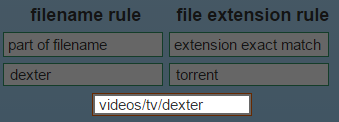
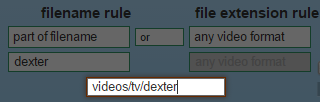
added confirmation, fixed pics in readme

diff --git a/readme.html b/readme.html
@@ -19,9 +19,8 @@
 </div>
 
 <div id="intro">
-    This is the best extension to organize your downloads into different folders.<br><br>
+    This is the best extension to organize your downloads into different folders using simple intuitive rules.<br><br>
 
-    This is not an easy task. You need to understand one thing:<br>
     Due to security reasons Javascript doesn't allow access to <i class="accent">ANY</i> folder on your computer. So my suggestions are either:<br>
     
 
@@ -47,20 +46,20 @@
 &nbsp;&nbsp;&nbsp;&nbsp;2. Place all your required download folders as <b>sub-diretories of the main download folder</b>.
 </div>
 
-<p><b><a class="four" href="#setRulesTitle">set rules</a></b></p>
-<p><b><a class="four" href="#examples">examples</a></b></p>
+<p><b><a class="four" href="#setRulesTitle">Set Rules</a></b></p>
+<p><b><a class="four" href="#examples">Examples</a></b></p>
 <p><b><a class="four" href="#qna">Q &amp; A</a></b></p>
-<p><b><a class="four" href="#contactMe">contact me</a></b></p>
+<p><b><a class="four" href="#contactMe">Contact Me</a></b></p>
 
 <p>
 <h1 id="setRulesTitle">Set Rules:</h1>
 <div id="newRule">
     <ol class="setRulesList" display="inline-block">
         <li class="setRulesList2">Click the <strong>New Rule</strong> button 
-          <img id="newRule" class="tutorialImages" src="tutorial/newRule.png"  height="80" alt="New Rule" title="New Rule">
+          <img id="newRule" class="tutorialImages" src="tutorial/newRule.png" alt="New Rule">
           <br><br><br><br>
         <li display="inline-block" class="setRulesList2">Select <strong>Filename Rule Type</strong> and/or <strong>Extension Rule Type</strong>
-          <img id="ruleType" class="tutorialImages" src="tutorial/selectRule2.png"  height="100" alt="rule type" title="Rule Type">
+          <img id="ruleType" class="tutorialImages" src="tutorial/selectRule.png"  height="100" alt="rule type" title="Rule Type">
           <ul>
             <li><strong>none</strong> - don't apply any rule
             <li><strong>exact match</strong> - input must match exactly the filename or extension.
@@ -70,12 +69,22 @@
                 to the filename or extension.<br>e.g ".*tor.*[0-9].*" is a valid regular expression input.
            </ul>
            <br>
-        <li display="inline-block" class="setRulesList2">Fill the <strong>Input</strong> box&nbsp;&nbsp;
+        <li display="inline-block" class="setRulesList2">Fill in the <strong>Input</strong> box&nbsp;&nbsp;
             <img id="ruleType" class="tutorialImages" src="tutorial/input.png" alt="rule type" title="Rule Type">
             <br>
             <br>
             <br>
-        <li display="inline-block" class="setRulesList2">Fill the <strong>Folder</strong> box
+        <li display="inline-block" class="setRulesList2">Choose <strong>and</strong> or <strong>or</strong> between rules.&nbsp;&nbsp;
+            <img id="ruleType" class="tutorialImages" src="tutorial/andOr.png" alt="rule type" title="Rule Type">
+            <br>
+            <br>
+            <br>
+        <li display="inline-block" class="setRulesList2">(If necessary) select <strong>extension</strong> rule.&nbsp;&nbsp;
+            <img id="ruleType" class="tutorialImages" src="tutorial/selectExtRule.png" alt="rule type" title="Rule Type">
+            <br>
+            <br>
+            <br>
+        <li display="inline-block" class="setRulesList2">Fill in the <strong>Folder</strong> box
             <img id="ruleType" class="tutorialImages" src="tutorial/folder.png" alt="rule type" title="Rule Type">
             <br>
             <br>
@@ -92,7 +101,7 @@
     <h1 id="examples">Examples</h1>
     <ol class="examplesList">
         <li display="inline-block" class="examplesList2"><img id="ruleType" class="exampleImages" src="tutorial/example1.png" alt="rule type" title="Rule Type">
-            save all <strong>mp4</strong> files containing the word <strong>dexter</strong> into <strong>videos/tv/dexter</strong> folder.
+            save all <strong>video</strong> files containing the word <strong>dexter</strong> into <strong>videos/tv/dexter</strong> folder.
             
          <br>
          <br>
@@ -102,12 +111,12 @@
         <br>
         <br>
         <li display="inline-block" class="examplesList2"><img id="ruleType" class="exampleImages" src="tutorial/example3.png" alt="rule type" title="Rule Type">
-            save all files containing the word <strong>McDonalds</strong> into <strong>MyNewsLetters</strong> folder.
+            save all files containing the word <strong>news</strong> into <strong>news</strong> folder.
        
        <br>
        <br>
         <li display="inline-block" class="examplesList2"><img id="ruleType" class="exampleImages" src="tutorial/example4.png" alt="rule type" title="Rule Type">
-            save all files containing either word <strong>mp4, mov, mkv, avi</strong> into <strong>videos/general</strong> folder.
+            save all <strong>image</strong> files into <strong>pics</strong> folder.
     </ol>
     
     <h1 id="qna">Q &amp; A</h1>
@@ -116,9 +125,11 @@
     <strong>Q:</strong> How is "any video format" defined?<br>
     <strong>A:</strong> It is a regular expression combining all video file formats ("...m4v|mkv|mod|mov|mp4|mpeg|...") taken from: <a href="http://www.online-convert.com/file-type">online-convert.com</a>
         <br>&nbsp;&nbsp;&nbsp;&nbsp;All other pre-defined formats are taken from there too.<br> <br>
+    <strong>Q:</strong> Can you add more features and pre-defined rules?<br>
+    <strong>A:</strong> Sure. Send me your ideas.<br><br>
      <h1 id="contactMe">Contact Me</h1>
-     <i id="readme" class="fa fa-facebook-official fa-2x"> | "Sagy Drucker"</i><br>
-     <i id="readme" class="fa fa-envelope fa-2x"> | sagysrael@hotmail.com</i><br>
+     <i id="readme" class="fa fa-facebook-official fa-2x"> | "Sagy Drucker"</i><br><br>
+     <i id="readme" class="fa fa-envelope fa-2x"></i>  <i id="readme" class="fa fa-paypal fa-2x"> | sagysrael@hotmail.com</i><br>
     
     <br>
     <br>

diff --git a/options.js b/options.js
@@ -3,8 +3,7 @@
 // found in the LICENSE file.
 
 function Rule(data) {
-    console.log("data: " + data);
-    console.log("data: " + JSON.stringify(data));
+    //console.log("data: " + JSON.stringify(data));
 
   var rules = document.getElementById('rules');
   document.getElementById("rulesTitle").style.display = "block";
@@ -15,7 +14,6 @@ function Rule(data) {
   this.node.hidden = false;
 
   if (data) {
-    console.log("data!");
     this.getElement('fn-select').value = data.fnSelect;
     this.getElement('andOr').value = data.andOr;
     this.getElement('ext-select').value = data.extSelect;
@@ -34,8 +32,8 @@ function Rule(data) {
   extRegInpt = this.getElement('ext-regex-input');
   var node_id = this.node.id;
   
-  console.log("fnRegInpt el: " + fnRegInpt.value);
-  console.log("extRegInpt el: " + extRegInpt.value);
+  //console.log("fnRegInpt el: " + fnRegInpt.value);
+  //console.log("extRegInpt el: " + extRegInpt.value);
   
   //this.getElement('fn-select').onchange = function () {setPlaceholders(this, rules, node_id, "fn-regex-input") };
   this.getElement('fn-select').onchange = function () {setDisabledAndPlaceholders(this.className, "fn-regex-input") };
@@ -66,7 +64,11 @@ function Rule(data) {
     }
     storeRules();
   };
+  
   this.getElement('remove').onclick = function() {
+    if (rule.node.parentNode.children.length == 1) // means now we're removing the last child
+        document.getElementById("rulesTitle").style.display = "none";
+
     rule.node.parentNode.removeChild(rule.node);
     storeRules();
   };
@@ -80,52 +82,6 @@ Rule.prototype.getElement = function(name) {
   return document.querySelector('#' + this.node.id + ' .' + name);
 }
 
-/*
-function setPlaceholders(regSelection, rules, rule_id, inputClass)
-{
-    console.log("setPlaceholders - "+regSelection.value + " - " + rules + " - " + rule_id);
-    for (i = 0; i < rules.childElementCount; i++) { 
-        if (rules.children[i].id == rule_id)
-        {
-            var input = rules.children[i].getElementsByClassName(inputClass)[0]
-            if (input.value == "")
-            {
-                switch(regSelection.value) {
-                    case "match":
-                        input.disabled = false;
-                        input.placeholder = "input: e.g. 'myFile', ...";
-                        break;
-                    case "contains":
-                        input.disabled = false;
-                        input.placeholder = "input: e.g. 'jpg', 'torrent',...";
-                        break;
-                    case "regexMatch":
-                        input.disabled = false;
-                        input.placeholder = "input: e.g. .*torrent.*";
-                        break;
-                    case "none":
-                        input.disabled = true;
-                        input.placeholder = "";
-                        break;
-                    case "anyVideo":
-                    case "anyAudio":
-                    case "anyImage":
-                        input.disabled = true;
-                        input.placeholder = "pre-defined query";
-                        break;
-                    default:
-                        input.placeholder = "input";
-                }
-            }
-            else if(regSelection.value == "none")
-                input.disabled = true;
-        }
-    }
-    
-    
-    storeRules();
-}
-*/
 
 Rule.prototype.render = function() {
   this.getElement('move-up').disabled = !this.node.previousSibling;
@@ -135,7 +91,7 @@ Rule.prototype.render = function() {
 Rule.next_id = 0;
 
 function loadRules() {
-  var rules = localStorage.rules;
+  var rules = localStorage.rules;  
   try {
     JSON.parse(rules).forEach(function(rule) {new Rule(rule);});
   } catch (e) {
@@ -146,8 +102,13 @@ function loadRules() {
 function checkAndStoreRules() 
 {
     storeRules();
+    document.getElementById('saveDisk').style.display="none";
     document.getElementById('savedcheck').style.display="inline";
-    setTimeout(function(){ document.getElementById('savedcheck').style.display="none"; }, 1000);
+    setTimeout(function(){
+        document.getElementById('savedcheck').style.display="none";
+        document.getElementById('saveDisk').style.display="inline";        
+        }, 1000);
+    
 }
 
 function storeRules() {
@@ -169,17 +130,21 @@ function storeRules() {
 
 function clearAll()
 {
-  console.log("clearing");
-  document.getElementById("rulesTitle").style.display = "none";
-  localStorage.rules = JSON.stringify([]);
-  //loadRules();
-  location.reload();
+  //console.log("clearing");
+  var r = confirm("Clear all rules?");
+  if (r == true) {
+    document.getElementById("rulesTitle").style.display = "none";
+    localStorage.rules = JSON.stringify([]);
+    //loadRules();
+    location.reload();
+  }
+  
   
 }
 
 function readme()
 {
-  console.log("readme");
+  //console.log("readme");
   window.open('readme.html');
   
 }
@@ -189,19 +154,9 @@ function nextVersion()
     alert("This feature will be supported in the next version");
 }
 
-/*
-function chooseFolder()
-{
-  var path = new File("~/desktop");
-  var file = path.openDlg("Choose File:");
-  alert("file: "+file);
-}
-*/
-
-
 function setDisabledAndPlaceholders(regSelection, inputClass)
 {
-    console.log("regSelection: "+regSelection + " - inputClass: " + inputClass);
+    //console.log("regSelection: "+regSelection + " - inputClass: " + inputClass);
     
     var rules = document.getElementById('rules');    
     for (i = 0; i < rules.childElementCount; i++) { 

diff --git a/background.js b/background.js
@@ -1,11 +1,4 @@
-chrome.runtime.onMessage.addListener(
-  function(request, sender, sendResponse) {
-    console.log(sender.tab ?
-                "from a content script:" + sender.tab.url :
-                "from the extension");
-    if (request.greeting == "hello")
-      chrome.tabs.create({ 'url': 'chrome://extensions/?options=' + chrome.runtime.id });
-  });
+
 
 chrome.downloads.onDeterminingFilename.addListener(function(item, __suggest) {
   function suggest(filename, conflictAction) {
@@ -43,7 +36,7 @@ function parseRules(rules, filename)
     for (i = 0; i < rules.length; i++) { 
     
         rule = rules[i];
-        alert("rule: "+JSON.stringify(rule));
+        // alert("rule: "+JSON.stringify(rule));
         
         // rule is enabled, and at least one of the two rule types is set
         if (rule.enabled) {
@@ -98,7 +91,7 @@ function isMatchFound(fnAns, extAns, andOr)
              ans = false;
     }
     
-    alert( fnAns + "  " + andOr + "  " + extAns + "        returning: " + ans);
+    // alert( fnAns + "  " + andOr + "  " + extAns + "        returning: " + ans);
     return ans;
     
     
@@ -109,9 +102,9 @@ function performRegexMatch(regexString, data)
     /*because matchRule has a few regex options, this is a generic method to run regex match and return true or false.*/
     var ans = false;
     var re = new RegExp(regexString, "i");
-    alert("performing regex-match-query for re: "+re);
+    // alert("performing regex-match-query for re: "+re);
     if (data.search(re) > -1) {
-        alert("REGEXTMATCH match!");
+        // alert("REGEXTMATCH match!");
         ans = true;
      }
     return ans;
@@ -133,7 +126,7 @@ function matchRule(selectionType, selectionInput, data)
         case "match":
             //alert("MATCH ruletype for selection-type: "+ selectionType + " - data: " + data);
             if (selectionInput == data) {
-                alert("MATCH match!");
+                // alert("MATCH match!");
                 ans = true;
             }
             break;
@@ -142,7 +135,7 @@ function matchRule(selectionType, selectionInput, data)
             // alert("CONTAINS type: "+ selectionType + " - data: " + data);
             // alert("CONTAINS res: "+ data.indexOf(selectionInput));
             if (data.indexOf(selectionInput) != -1) {
-                alert("CONTAINS match!");
+                // alert("CONTAINS match!");
                 ans = true;
             }
             break;

diff --git a/options.html b/options.html
@@ -24,12 +24,12 @@
     <div id="buttons">
         <button type="button" class="btn btn-primary btn-xs" id="new">New Rule</button>
         <button type="button" id="save" class="btn btn-success btn-xs">
-            <i id="savedcheck" class="fa fa-check-circle"></i>  Save Rules</button>
+            <i id="savedcheck" class="fa fa-check-circle"></i><i id="saveDisk" class="fa fa-save"></i> | Save Rules</button>
         <button id="clearAll" type="button" class="btn btn-warning btn-xs">Clear Rules</button>
     </div>
     <div id="buttons">
-        <button type="button" class="btn btn-primary btn-xs" id="exportRules">Export Rules</button>
-        <button type="button" class="btn btn-primary btn-xs" id="importRules">Import Rules</button>
+        <button type="button" class="btn btn-primary btn-xs fa fa-arrow-circle-up" id="exportRules"> | Export Rules</button>
+        <button type="button" class="btn btn-primary btn-xs fa fa-arrow-circle-down" id="importRules"> | Import Rules</button>
         <!--<button type="button" class="btn btn-primary btn-xs btn-default" id="readme" font-size="10%">instructions</button>        -->
     </div>
     <div id="buttons">

diff --git a/options.css b/options.css
@@ -137,12 +137,12 @@ input[type="text"]:disabled {
     background: #cccccc;
 }
 
-/*
+
 input[type="text"]:focus,select:focus{
   border: solid 1px #0A1E14;
   box-shadow: 0 0 5px 1px #969696;
 }
-*/
+
 
 /*
 input[type="text"] ,select{
@@ -151,10 +151,11 @@ input[type="text"] ,select{
     outline: 0px rgba(0,0,0,0) solid;
     transition: outline-color .3s
 }
-input[type="text"]:focus,select:focus, #new{
+input[type="text"]:focus,select:focus, #save{
     z-index:1000;
     position:relative;
     border:1px solid #f60;
     outline: 5000px rgba(0,0,0,.6) solid ;
 }
+
 */

diff --git a/readme.css b/readme.css
@@ -92,7 +92,7 @@ a.four:hover{
     vertical-align: middle;
     border: 1px solid #ccc;
     height: 100px;
-    width: 220px;
+    width: 225px;
     position: relative;
 }
 
